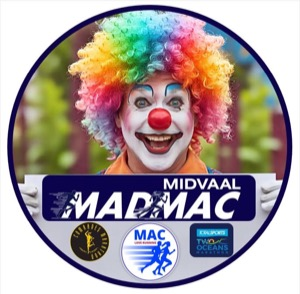
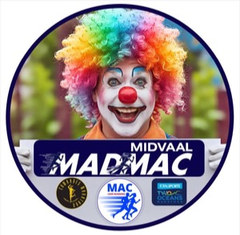
Halve the image weight, with a quality gate that can say no
assets/img was 2.36MB with no compression pass ever run over it: sponsor
logos stored at 600px to be displayed at 64, the Comrades badge at 241KB
for a 40px slot, flat logo art stored as full truecolour PNG. Now 1.38MB,
41% off, with no filename and no markup changed — every reference either
comes from render.py or is typed into the CMS by a volunteer, and
switching to WebP would mean <picture> elements, two sets of files to
keep in step, and a CMS field where "logo.png" quietly stops working.

The tool matters more than this one run, so it is checked in. Three
things in it were bugs I hit rather than things I designed up front, and
each was silently producing a wrong answer:

Palette PNGs were being resized in palette-INDEX space, blending
positions in a colour table rather than colours. Several sponsor logos
are mode P and came out as confetti.

The quality score was measuring squashed images: a 600x242 logo scored
inside a 200x200 box distorts reference and candidate by different
amounts, and reads as catastrophic loss on a file that is fine.

And every JPEG "could not be compressed" because Pillow defaults to
4:2:0 chroma subsampling below q95. That is right for photographs and
wrong for logo art — RMS 8.76 on the club badge at 4:2:0 against 2.59 at
4:4:4, for a file still a third of the original.

The gate itself: each candidate is scored against the original, rendered
at the size the image is actually displayed at, composited over the navy
[…]

diff --git a/tools/optimise-images.py b/tools/optimise-images.py
@@ -1,0 +1,272 @@
+#!/usr/bin/env python3
+"""Shrink assets/img in place, without changing a single filename, and
+without silently degrading anything.
+
+Why in place rather than emitting .webp: every image reference on this
+site comes either from build-time markup in render.py or from paths club
+volunteers type into the CMS. Switching formats would mean <picture>
+elements, a second set of files to keep in step, and a CMS field where
+"logo.png" quietly stops working. The savings here come from the two
+things that were actually wrong — images stored several times larger than
+they are ever displayed, and flat logo art stored as full truecolour —
+and neither of those needs a format change.
+
+The important part is the quality gate. Each file is encoded several ways,
+most aggressive first, and every candidate is scored against the ORIGINAL
+by rendering both at the size the image is actually displayed at, over the
+navy the site actually uses (alpha matters: score a logo on white and a
+transparent PNG looks catastrophically wrong when it is fine). The first
+candidate under MAX_RMS wins; if none pass, the file is left alone. So a
+bad result is a no-op rather than a visibly mushy logo nobody notices
+until it is live.
+
+Idempotent — see MANIFEST for what makes that true, and for the
+generational-loss trap it exists to close. Safe to run after dropping a
+new sponsor logo in: unrecognised files get processed, files this tool
+already wrote are left alone.
+
+    python3 tools/optimise-images.py            # report only
+    python3 tools/optimise-images.py --write    # actually rewrite
+"""
+import hashlib
+import io
+import json
+import math
+import sys
+from pathlib import Path
+
+from PIL import Image, ImageChops
+
+ROOT = Path(__file__).resolve().parent.parent
+IMG = ROOT / "assets" / "img"
+
+# The ground these images are composited over on the page (--navy-950).
+BG = (10, 17, 40)
+
+# Root-mean-square difference, per channel, at display size. Below ~2 is
+# imperceptible; 3 is the point where flat colour starts to band visibly.
+MAX_RMS = 3.0
+
+# A candidate has to beat the current file by at least this much to be
+# worth writing at all.
+MIN_SAVING = 0.10
+
+# What actually makes this tool safe to re-run: a record of every file it
+# has already produced, by content hash.
+#
+# The quality gate scores a candidate against "the original" — which, on a
+# second run, is whatever is on disk, i.e. the previous run's output. That
+# re-baselining is the whole problem. Measured on this repo: a second pass
+# wanted to re-encode a logo from JPEG q92 to q88 (a 10% saving, second
+# generation loss) and to re-quantise a PNG that had failed the palette
+# gate against the full-size original but passed it against the already
+# downscaled copy. Both were reported as rms ~2.4 — comfortably "clean" —
+# while being exactly the silent degradation the gate exists to prevent.
+#
+# So: if a file's current bytes are one this tool wrote, leave it alone.
+# Anything else — a new sponsor logo, a re-exported photo — is processed
+# normally. Delete this file to force a full re-run from source images.
+MANIFEST = IMG / ".optimised.json"
+
+
+def sha(data):
+    return hashlib.sha256(data).hexdigest()
+
+
+def load_manifest():
+    try:
+        return json.loads(MANIFEST.read_text())
+    except (OSError, ValueError):
+        return {}
+
+# Longest edge to keep. Roughly 3x the largest size each is displayed at,
+# measured in the browser — generous enough for a retina phone and a
+# future layout change, and still far below what these files were.
+BUDGETS = {
+    "gallery": 1000,   # carousel, ~700px wide at desktop: recompress only
+    "sponsors": 200,   # rendered 64px tall in the wall and the marquee
+    "badges": 240,     # rendered ~40px in the hero trust row
+}
+FIXED = {
+    "madmac-badge.jpg": 240,        # rendered 40x40, but small JPEGs artifact fast
+    "madmac-wordmark.png": 650,     # the logo — leave room to use it bigger
+    "og-madmac-2026.png": 1200,     # fixed by the Open Graph spec
+    "apple-touch-icon.png": 180,    # fixed by iOS
+    "favicon-32.png": 32,
+    "favicon-16.png": 16,
+}
+
+
+# Longest edge each image is actually rendered at, x2 for retina. Measured
+# in the browser at both 375px and desktop widths — this is the resolution
+# a difference has to be visible at to count as a difference.
+SCORE_AT_GROUP = {"gallery": 1000, "sponsors": 160, "badges": 120}
+SCORE_AT_FILE = {
+    "madmac-badge.jpg": 80,          # rendered 40x40
+    "madmac-wordmark.png": 400,      # rendered ~200px wide at most
+    "og-madmac-2026.png": 1200,      # shown at full size in a social card
+    "apple-touch-icon.png": 180,     # shown at full size on a home screen
+    "favicon-32.png": 32,
+    "favicon-16.png": 16,
+}
+
+
+def budget_for(path):
+    return FIXED.get(path.name) or BUDGETS.get(path.parent.name, 1200)
+
+
+def score_at(path):
+    return SCORE_AT_FILE.get(path.name) or SCORE_AT_GROUP.get(path.parent.name, 1200)
+
+
+def flatten(im, size):
+    """Render over the page background, at display size — the only view of
+    an image whose difference from the original actually matters."""
+    im = im.convert("RGBA").resize(size, Image.LANCZOS)
+    ground = Image.new("RGBA", size, BG + (255,))
+    return Image.alpha_composite(ground, im).convert("RGB")
+
+
+def rms(a, b):
+    diff = ImageChops.difference(a, b)
+    hist = diff.histogram()
+    per_channel = []
+    for ch in range(3):
+        h = hist[ch * 256:(ch + 1) * 256]
+        n = sum(h) or 1
+        per_channel.append(math.sqrt(sum(v * (i ** 2) for i, v in enumerate(h)) / n))
+    return sum(per_channel) / 3
+
+
+def candidates(im, suffix):
+    """Encodings to try, most aggressive first."""
+    if suffix in (".jpg", ".jpeg"):
+        # subsampling=0 is 4:4:4 — full chroma resolution. Pillow's default
+        # for these qualities is 4:2:0, which halves colour resolution and
+        # is fine for photographs and terrible for logo art: it was the
+        # single reason every sponsor logo "could not be compressed"
+        # (RMS 8.76 on the club badge at 4:2:0 versus 2.59 at 4:4:4, for a
+        # file twice the size but still a third of the original).
+        for q, sub in ((82, 2), (88, 0), (92, 0), (95, 0)):
+            buf = io.BytesIO()
+            im.convert("RGB").save(
+                buf, "JPEG", quality=q, optimize=True, progressive=True, subsampling=sub
+            )
+            yield f"jpeg q{q} {'4:4:4' if sub == 0 else '4:2:0'}", buf
+        return
+
+    # PNG: try a palette first (flat logo art collapses to almost nothing),
+    # then fall back to plain re-encoding, which is lossless.
+    if im.mode in ("RGBA", "LA", "P"):
+        rgba = im.convert("RGBA")
+        for colors in (256, 256):
+            buf = io.BytesIO()
+            rgba.quantize(colors=colors, method=Image.FASTOCTREE).save(buf, "PNG", optimize=True)
+            yield f"png palette {colors}", buf
+            break
+        buf = io.BytesIO()
+        rgba.save(buf, "PNG", optimize=True)
+        yield "png rgba lossless", buf
+    else:
+        rgb = im.convert("RGB")
+        buf = io.BytesIO()
+        rgb.quantize(colors=256, method=Image.MEDIANCUT).save(buf, "PNG", optimize=True)
+        yield "png palette 256", buf
+        buf = io.BytesIO()
+        rgb.save(buf, "PNG", optimize=True)
+        yield "png rgb lossless", buf
+
+
+def optimise(path, write, manifest):
+    before = path.stat().st_size
+    rel = str(path.relative_to(ROOT))
+    if manifest.get(rel) == sha(path.read_bytes()):
+        return before, before, "already optimised (unchanged since last run)"
+
+    im = Image.open(path)
+    im.load()
+
+    # A mode "P" image MUST leave palette space before anything resizes it:
+    # interpolating palette *indices* blends colour-table positions, not
+    # colours, and produces confetti. Several sponsor logos are mode P, and
+    # this silently wrecked them before the quality gate caught it.
+    if im.mode == "P":
+        im = im.convert("RGBA" if "transparency" in im.info else "RGB")
+
+    original = im.copy()
+    limit = budget_for(path)
+    note = ""
+    if max(im.size) > limit:
+        # Explicit resize, NOT Image.thumbnail(): thumbnail() calls draft()
+        # on JPEGs, which downscales in the DCT domain. It is fast and it is
+        # visibly worse — every JPEG here failed the quality gate on that
+        # alone, which read as "this image cannot be compressed" when the
+        # real problem was how it was being shrunk.
+        ow, oh = im.size
+        scale = limit / max(ow, oh)
+        im = im.resize((max(1, round(ow * scale)), max(1, round(oh * scale))), Image.LANCZOS)
+        note = f" {original.size[0]}x{original.size[1]}->{im.size[0]}x{im.size[1]}"
+
+    # Score at the size the image is actually SHOWN at, not the size it is
+    # stored at. A sponsor logo is a 64px-tall strip on the page; JPEG
+    # ringing in a 200px file that vanishes the moment the browser scales
+    # it down to 64 is not a defect worth protecting against, and scoring
+    # at storage size rejects perfectly good encodings for it.
+    #
+    # Aspect ratio is preserved: scoring a 600x242 logo inside a 200x200
+    # box squashes reference and candidate by different amounts, and the
+    # score becomes meaningless.
+    ow, oh = original.size
+    scale = min(1.0, score_at(path) / max(ow, oh))
+    display = (max(1, round(ow * scale)), max(1, round(oh * scale)))
+    reference = flatten(original, display)
+
+    for label, buf in candidates(im, path.suffix.lower()):
+        size = len(buf.getvalue())
+        if size > before * (1 - MIN_SAVING):
+            continue
+        buf.seek(0)
+        score = rms(reference, flatten(Image.open(buf), display))
+        if score <= MAX_RMS:
+            if write:
+                data = buf.getvalue()
+                path.write_bytes(data)
+                manifest[rel] = sha(data)
+            return before, size, f"{label}{note} (rms {score:.2f})"
+
+    return before, before, "left alone — nothing beat the quality gate"
+
+
+def main():
+    write = "--write" in sys.argv
+    files = sorted(
+        p for p in IMG.rglob("*")
+        if p.is_file() and p.suffix.lower() in (".jpg", ".jpeg", ".png")
+    )
+    manifest = load_manifest()
+    total_before = total_after = 0
+    rows = []
+    for path in files:
+        before, after, note = optimise(path, write, manifest)
+        total_before += before
+        total_after += after
+        rows.append((path.relative_to(ROOT), before, after, note))
+
+    rows.sort(key=lambda r: r[1] - r[2], reverse=True)
+    for rel, before, after, note in rows:
+        if after == before:
+            print(f"{before/1024:8.1f}KB {'':>14}  {rel}  {note}")
+        else:
+            print(f"{before/1024:8.1f}KB -> {after/1024:7.1f}KB  ({100*(1-after/before):4.1f}% off)  {rel}  {note}")
+
+    print()
+    print(f"total {total_before/1024:.1f}KB -> {total_after/1024:.1f}KB "
+          f"({100*(1-total_after/total_before):.1f}% smaller)")
+    if write:
+        MANIFEST.write_text(json.dumps(manifest, indent=2, sort_keys=True) + "\n")
+    if not write:
+        print("\ndry run — nothing written. Re-run with --write to apply.")
+
+
+if __name__ == "__main__":
+    main()
